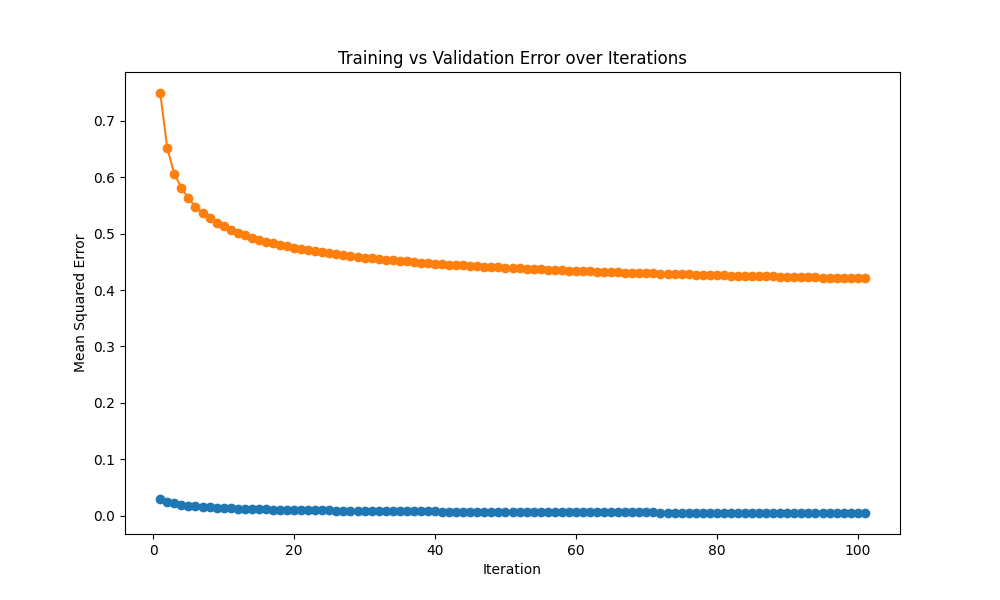
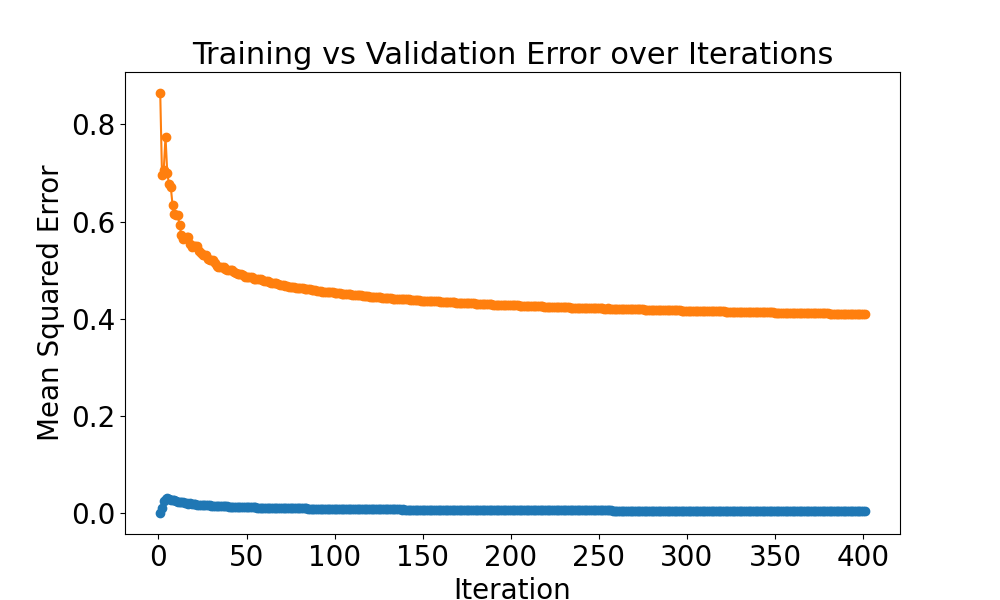
backup

diff --git a/fed_relax.py b/fed_relax.py
@@ -198,7 +198,7 @@ def add_edges_k8s(clients_attributes, nrneighbors=4, refdistance=50):
                 pod_name_j = list(clients_attributes.keys())[j]
 
                 # Calculate the Euclidean distance between pods based on their positions
-                distance = np.linalg.norm(node_positions[i] - node_positions[j])
+                distance = np.linalg.norm(node_positions[i] - node_positions[j], 2)
                 weight = np.exp(-distance / refdistance)
 
                 # Add edge with weight based on distance
@@ -218,7 +218,7 @@ def visualize_and_save_graph(graph, output_path):
     plt.show()  # Display the graph
 
 
-def FedRelax(G, regparam=0, maxiter=10):
+def FedRelax(G, regparam=0, maxiter=100):
     # Determine the number of data points in the test set
     global neighbours_models, local_model, Xtrain, ytrain, Xtest, sample_weight, current_iteration
     testsize = Xtest.shape[0]
@@ -255,10 +255,10 @@ def FedRelax(G, regparam=0, maxiter=10):
                 # sample_weight_reshaped = sample_weight.reshape(-1, 1)
                 sample_weight = np.vstack((sample_weight, sampleweightaug * G.edges[(my_pod_name, neighbour)]["weight"] * np.ones((len(neighbourpred), 1))))
 
-        # Fit the local model with the augmented dataset and sample weights
-        local_model.fit(Xtrain, ytrain, sample_weight=sample_weight.reshape(-1))
-        print("Local model has been trained with augmented dataset and sample weights, current counter: ", iter_GD)
-        model_evaluation(local_model,iter_GD)
+            # Fit the local model with the augmented dataset and sample weights
+            local_model.fit(Xtrain, ytrain, sample_weight=sample_weight.reshape(-1))
+            print("Local model has been trained with augmented dataset and sample weights, current counter: ", iter_GD)
+            model_evaluation(local_model,iter_GD)
     app.logger.debug("The FedRelax process is completed")
     return local_model
 
@@ -430,9 +430,11 @@ def model_evaluation(model, iteration=None, output_path=None):
         plt.plot(range(1, len(local_val_errors) + 1), local_val_errors, label='Validation Error', marker='o')
         
         # Add title and labels
-        plt.title(f'Training vs Validation Error over Iterations')
-        plt.xlabel('Iteration')
-        plt.ylabel('Mean Squared Error')
+        plt.title(f'Training vs Validation Error over Iterations', fontsize=22)
+        plt.xlabel('Iteration', fontsize=20)
+        plt.ylabel('Mean Squared Error', fontsize=20)
+        plt.tick_params(axis='both', which='major', labelsize=20)
+        plt.tick_params(axis='both', which='minor', labelsize=20) 
         plt.savefig(output_path)
         print(f"Image is successfully saved in {output_path}")
         all_train_errors.append(trainerr)

diff --git a/evaluation/aggregator.py b/evaluation/aggregator.py
@@ -34,12 +34,14 @@ def validation_graph():
     y_1 = all_client_attributes.get("processor-11")["model"].predict(X_val)
     y_2 = all_client_attributes.get("processor-5")["model"].predict(X_val)
 
+
     # Plot the results
     plt.figure()
     plt.plot(X_val, y_1, color="orange", label="Model at Node 11 Predictions", linewidth=2)
     plt.plot(X_val, y_2, color="green", label="Model at Node 5 Predictions", linewidth=2)
-    plt.plot(all_client_attributes.get("processor-8")["Xval"], all_client_attributes.get("processor-0")["yval"], color="blue", label="Actual Validation Data for Node 8", linewidth=2)
-    plt.plot(all_client_attributes.get("processor-15")["Xval"], all_client_attributes.get("processor-11")["yval"], color="red", label="Actual Validation Data for Node 15", linewidth=2)
+    plt.plot(all_client_attributes.get("processor-15")["Xval"], all_client_attributes.get("processor-11")["yval"], color="blue", label="Actual Validation Data for Node 15", linewidth=2)
+    plt.plot(all_client_attributes.get("processor-0")["Xval"], all_client_attributes.get("processor-1")["yval"], color="red", label="Actual Validation Data for Node 2", linewidth=2)
+
     plt.title("Comparison of Model Predictions and Actual Validation Data", fontsize=14)
     plt.xlabel("Validation Feature Data (X_val)", fontsize=12)
     plt.ylabel("Predicted/Actual Values", fontsize=12)
